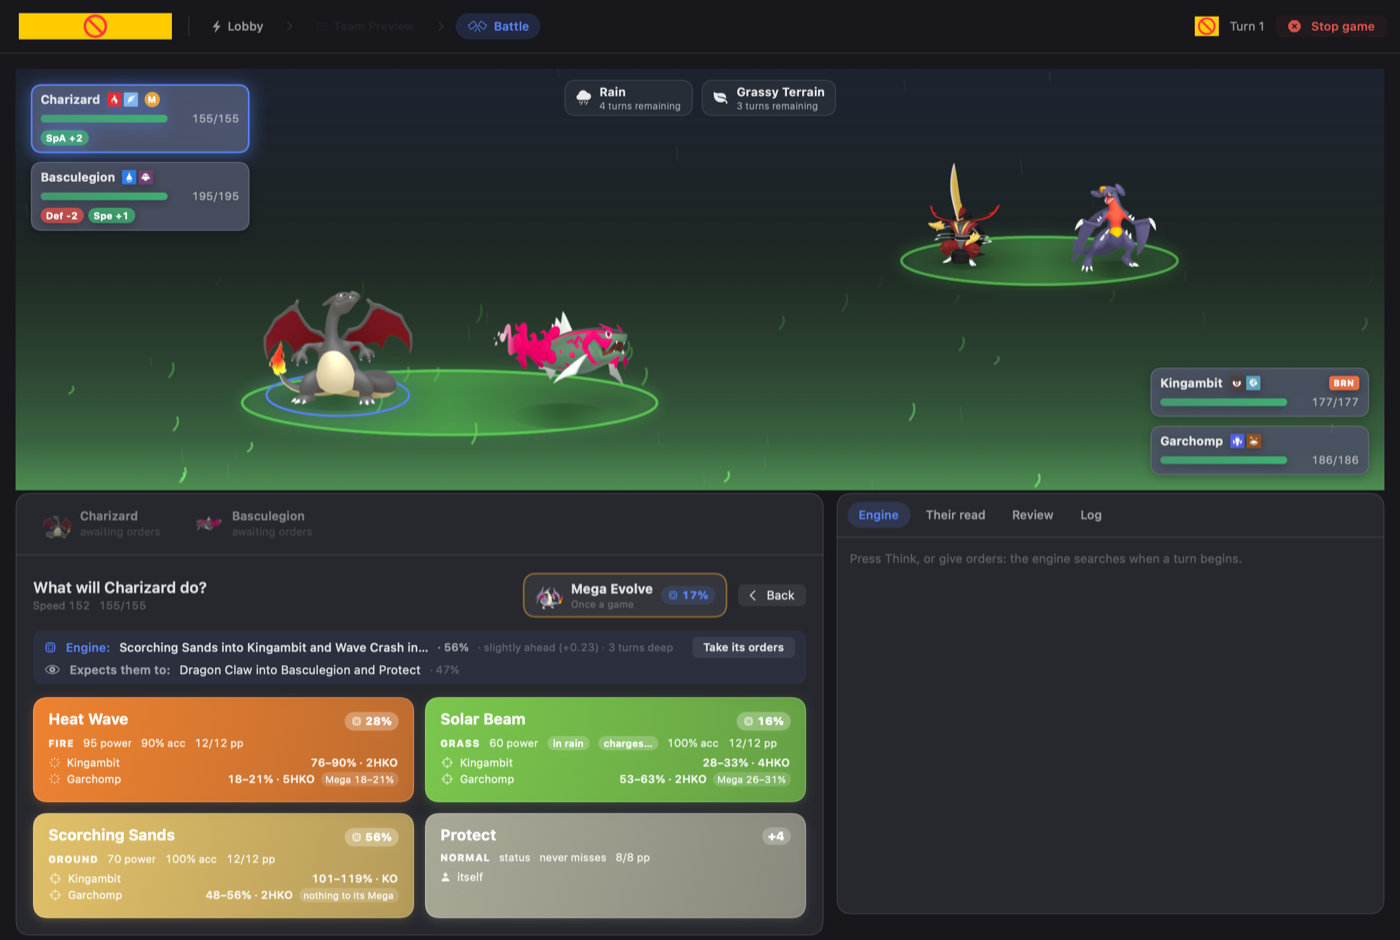
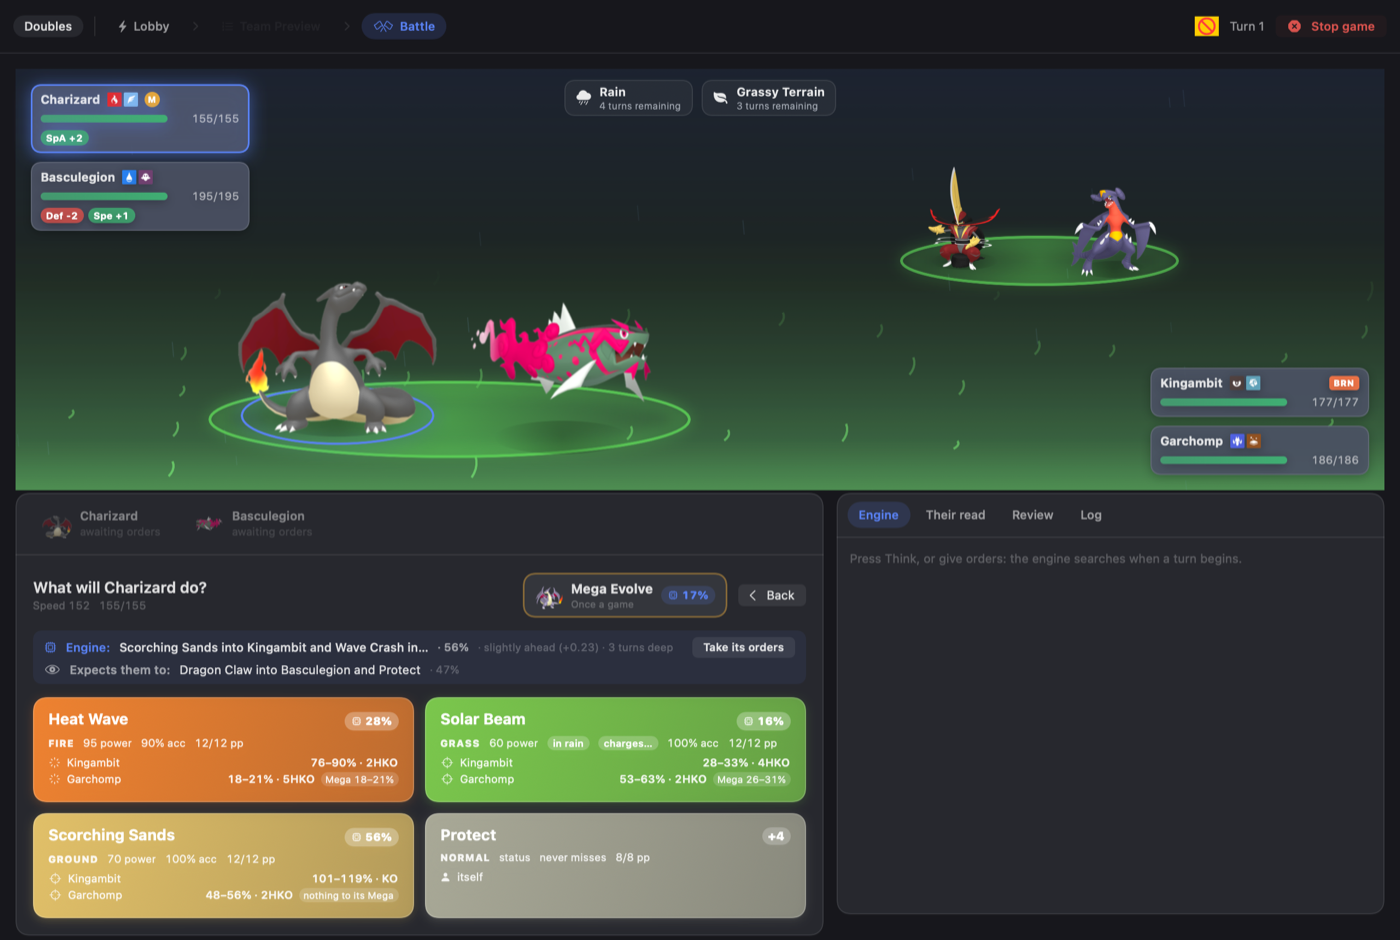
Screenshots of the app that exists
The battle shots were drawn in the app's own illustrations, which is not
what a battle looks like any more. They were held there on the grounds
that a fetched picture cannot be compared against last week's -- and
nothing compares these to anything. The tool renders them for a look at
the screens; `snapshot.sh` says so in its first line. So the guard was
protecting a comparison nobody makes, at the cost of every battle shot
showing art the app stopped drawing.

They draw Showdown's sprites now. The tool asks for them and waits, with
a bounded poll, because `frames` answers nil while it is still fetching --
and a form Showdown has nothing for never arrives, which is fine, since
the renderer falls back to the illustration on its own. A machine with no
network still gets a picture, just an older-looking one.

The segmented control in the battle header is drawn as the word it was
saying when the shot is a snapshot. `ImageRenderer` draws an AppKit
container as a bright yellow placeholder, and that one sat in the top
corner of every battle screenshot.

Four images in the README now rather than seven, chosen by looking at
them: the field mid-turn, the lobby, Team Preview, the builder's read on
a six. The other three went because they showed nothing worth showing --
the weather sheet is a developer's reference rather than a screen, LAN is
an empty list when nobody else is running the app, and the calculator is
more yellow placeholder than calculator, being made almost entirely of
[…]

diff --git a/Tools/snapshot/main.swift b/Tools/snapshot/main.swift
@@ -42,6 +42,35 @@ func render<V: View>(_ view: V, named name: String, size: CGSize, dark: Bool) {
     print("  wrote \(out.path)")
 }
 
+/// The sprites a board needs, fetched and waited for.
+///
+/// `frames` answers nil while it is still fetching and hands the picture back
+/// once it has it, so the wait is a poll -- and a bounded one, because a form
+/// Showdown has nothing for never arrives and the renderer falls back to the
+/// app's own illustration for it anyway.
+@MainActor
+func warmSprites(on board: Board, style: PixelSprites.Style = .models) {
+    let pixels = PixelSprites.shared
+    let forms = (board.mine + board.theirs).map(\.build.form)
+    func missing() -> [ChampionsLab.Form] {
+        forms.filter { form in
+            pixels.frames(for: form, back: true, style: style) == nil
+                || pixels.frames(for: form, back: false, style: style) == nil
+        }
+    }
+    _ = missing()                       // asks for every one of them
+    let deadline = Date().addingTimeInterval(30)
+    var short = missing()
+    while !short.isEmpty, Date() < deadline {
+        RunLoop.main.run(until: Date().addingTimeInterval(0.15))
+        let now = missing()
+        if now.count == short.count, Date() > deadline - 25 { }
+        short = now
+    }
+    if short.isEmpty { print("  sprites ready") }
+    else { print("  sprites: \(short.count) still missing, drawn as illustrations") }
+}
+
 /// A stand-in report, so the results layout can be checked without spending a
 /// minute running the real audit.
 func sampleParity() -> ParityAudit.Report {
@@ -326,6 +355,10 @@ let builderSeed = store.form(named: "Mega Baxcalibur")
         return Board(mine: mine, theirs: store.opponentTeam(meta), rules: store.rulebook,
                      field: Field(isDoubles: true), alreadyEvolved: false)
     }) {
+        // The Pokemon as the app draws them, which means fetching them first:
+        // a shot taken before they arrive falls back to the illustrations and
+        // shows an app nobody is running.
+        warmSprites(on: board)
         var solver = TurnGame(board: board, believingTheirs: true)
         solver.width = 8
         let solution = solver.solve()

diff --git a/Sources/ChampionsLab/Screens/BattleView.swift b/Sources/ChampionsLab/Screens/BattleView.swift
@@ -397,11 +397,23 @@ struct BattleView: View {
                 EngineSwitch(link: link, session: session)
                 Divider().frame(height: 18)
             } else {
-                Picker("", selection: $singles) {
-                    Text("Doubles").tag(false)
-                    Text("Singles").tag(true)
-                }.pickerStyle(.segmented).labelsHidden().frame(width: 150)
-                .onChange(of: singles) { _ in reset() }
+                // A segmented control is an AppKit container, and the
+                // renderer draws one as a yellow placeholder -- a bright
+                // block in the corner of every battle shot. In a snapshot it
+                // is the word instead, which is all it was saying.
+                if snapshotMode {
+                    Text(singles ? "Singles" : "Doubles")
+                        .font(.system(size: 11, weight: .medium))
+                        .padding(.horizontal, 10).padding(.vertical, 3)
+                        .background(Palette.surface)
+                        .clipShape(Capsule())
+                } else {
+                    Picker("", selection: $singles) {
+                        Text("Doubles").tag(false)
+                        Text("Singles").tag(true)
+                    }.pickerStyle(.segmented).labelsHidden().frame(width: 150)
+                    .onChange(of: singles) { _ in reset() }
+                }
 
                 Divider().frame(height: 18)
 

diff --git a/Sources/ChampionsLab/Screens/BattleScene.swift b/Sources/ChampionsLab/Screens/BattleScene.swift
@@ -24,12 +24,17 @@ extension BattleFieldView {
 
     /// Pixel sprites are the scene's own look; the illustrations stay for a
     /// still, which cannot fetch and cannot play an AppKit view anyway.
-    /// Which of Showdown's two sets the battle is drawn in. A snapshot is
-    /// always the illustrations: the sets are fetched, and a picture that
-    /// depends on the network is not one you can compare against last week's.
+    /// Which of Showdown's two sets the battle is drawn in.
+    ///
+    /// A snapshot draws them too. It used to be held to the illustrations on
+    /// the grounds that a fetched picture cannot be compared against last
+    /// week's -- but nothing compares these to anything: they are rendered
+    /// for a look at the screens, and a shot of a battle drawn in art nobody
+    /// sees any more is a shot of an app that does not exist. The renderer
+    /// falls back to the illustration on its own where a sprite has not
+    /// arrived, so a machine with no network still gets a picture.
     var look: PixelSprites.Style {
-        guard !snapshotMode else { return .illustrated }
-        return PixelSprites.Style.chosen(spriteStyle)
+        PixelSprites.Style.chosen(spriteStyle)
     }
     /// Kept for the geometry, which is laid out differently for a sprite than
     /// for an illustration whichever of Showdown's sets it came from.

diff --git a/README.md b/README.md
@@ -129,9 +129,6 @@ clean checkout builds without network access.
   <img src="docs/builder.png" width="820" alt="The builder, generating a six around one Pokemon">
 </p>
 
-<p align="center">
-  <img src="docs/calculator.png" width="820" alt="The damage calculator with battle stages">
-</p>
 
 ## Battling
 
@@ -167,11 +164,8 @@ it.
 Pokémon are drawn in Showdown's own two looks, switchable on the field: its
 animated Gen 6 set, or the Gen 5 one behind its `bwgfx` preference, each falling
 back to a Gen 5 still. The app's own illustration appears only where Showdown
-has nothing at all.
-
-<p align="center">
-  <img src="docs/weather.png" width="820" alt="Weather and terrain on the field">
-</p>
+has nothing at all — five of the three hundred and fifty forms, all of them
+Megas this game invented.
 
 **LAN Battles** finds other people running the app on your network. Ask one for
 a battle and they get it wherever they are in the app; both pick teams, both
@@ -180,10 +174,6 @@ screen seeing only what it is entitled to: a Pokémon's item, ability and moves
 stay hidden until the game itself reveals them. It is played in real time, with
 no stepping back, which is the one difference from a game against the app. The
 engine's advice is a switch, off by default.
-
-<p align="center">
-  <img src="docs/lan.png" width="820" alt="LAN battles, finding another player">
-</p>
 
 ## The battle engine
 
